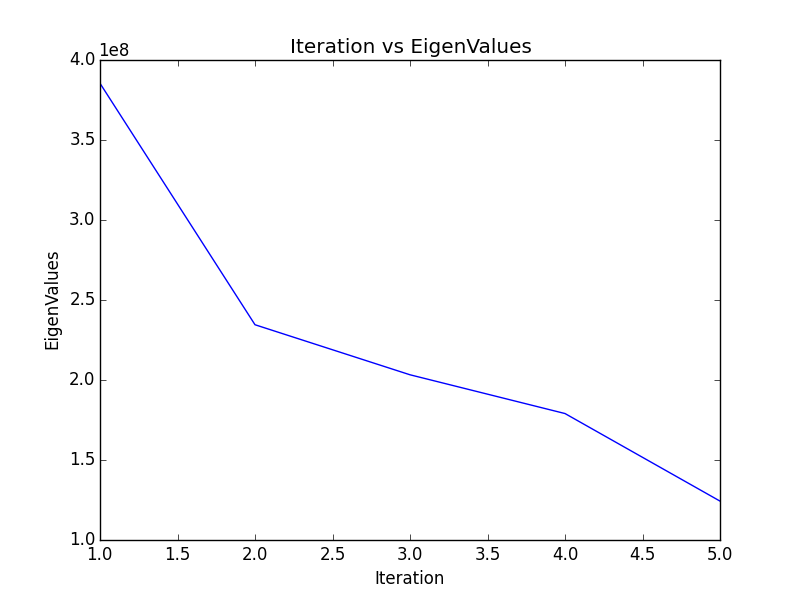
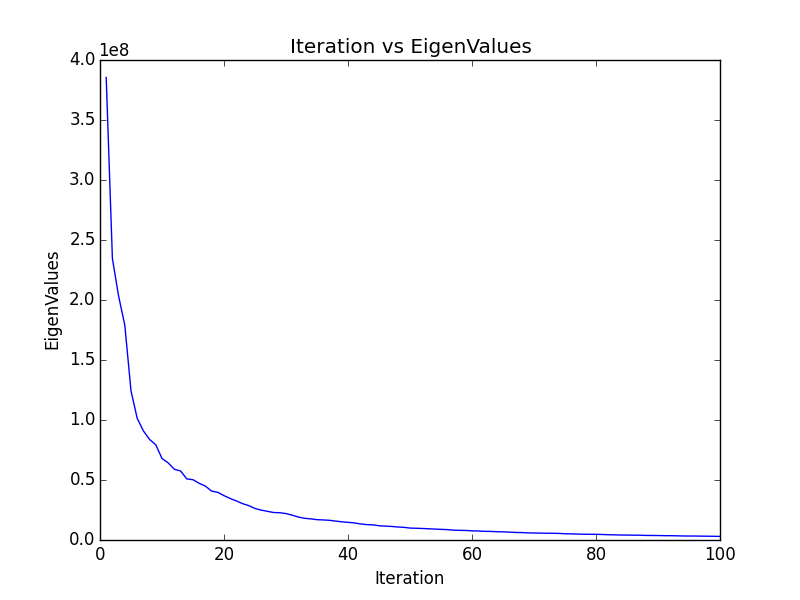
add ex6 section a and b in PCA

diff --git a/HW4/q6.py b/HW4/q6.py
@@ -11,7 +11,9 @@ import matplotlib.pyplot as plt
 # Training params
 from HW4.PCA import PCA
 
-NUF_EIGENVECTORS = 5
+NOF_EIGENVALUES = 100
+
+NOF_EIGENVECTORS = 5
 
 ITERS = 300
 
@@ -89,13 +91,13 @@ def part_a_and_b(org_train, org_train_labels, label=1, section='a'):
     pca = PCA(train_dataset)
     u, d = pca.run(dim=100)
 
-    for i in range(NUF_EIGENVECTORS):
+    for i in range(NOF_EIGENVECTORS):
         plt.figure()
         plt.imshow(np.reshape(u[i], (28, 28)), interpolation='nearest', cmap='gray')
         plt.savefig('q6_part_{}_i{}_label_{}'.format(section, i, num))
 
     plt.figure()
-    plot_graph(d[:NUF_EIGENVECTORS], range(1, NUF_EIGENVECTORS + 1), "q6_part_{}_label_{}".format(section, num), "",
+    plot_graph(d, range(1, NOF_EIGENVALUES + 1), "q6_part_{}_label_{}".format(section, num), "",
                "Iteration vs EigenValues",
                "EigenValues", "Iteration")
 
